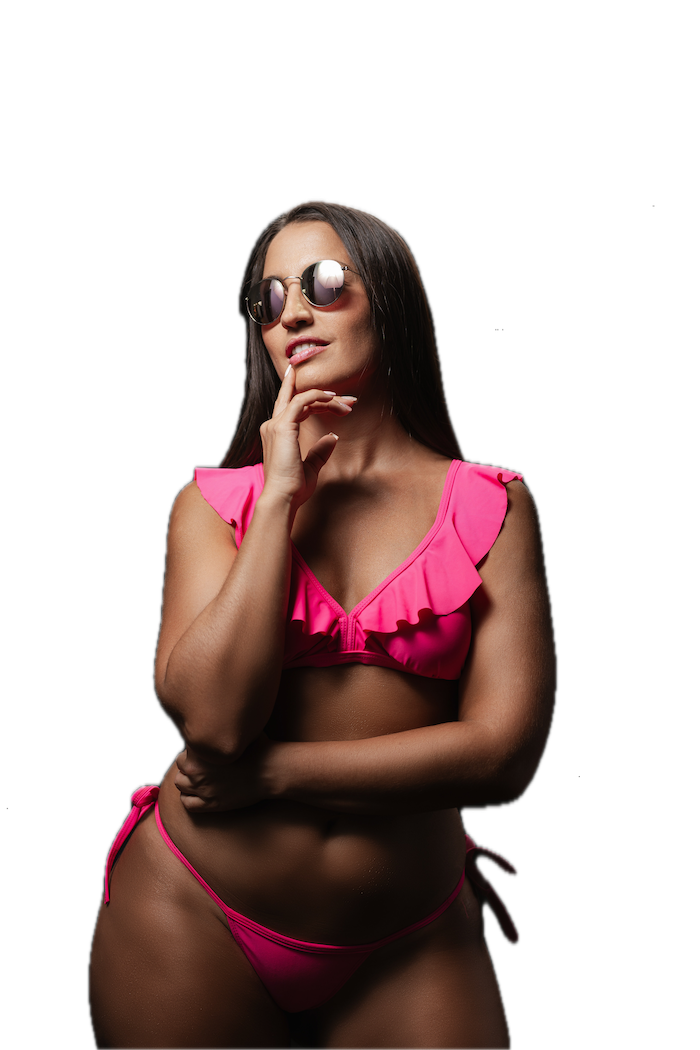
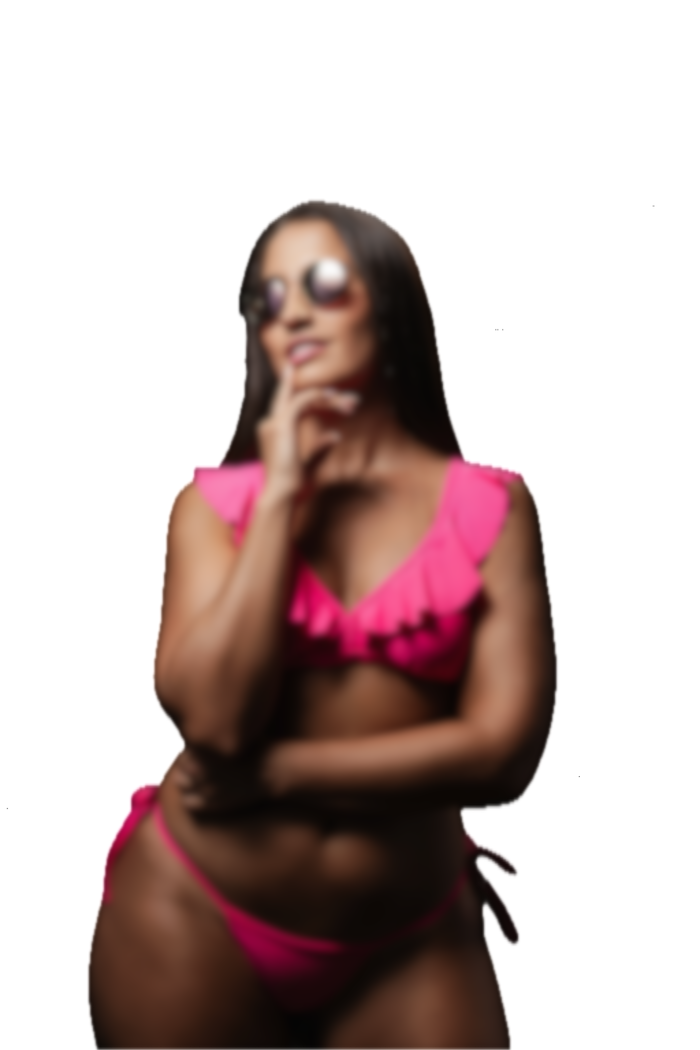
change img

diff --git a/style.css b/style.css
@@ -56,14 +56,14 @@ img {
 }
 
 input[type='range'] {
+    position: absolute; right: -35vw; top:40vh;
+    transform: rotate(-90deg); z-index: 99;
     -webkit-appearance: none;
     border-radius: 8px;
     border: 1px solid #bdc3c7;
     background-color: #bdc3c7;
     outline: none !important;
-    outline: 0;
     -webkit-tap-highlight-color: none;
-    border-radius: 0px;
     height: 30px;
     width: 90vw;
     border-radius: 10px;
@@ -93,3 +93,60 @@ input[type='range'] {
   input[type="range"]::-ms-fill-upper {  
     background-color: #9a905d;
   }
+
+
+  @media only screen and (min-width : 1024px){
+    /* Styles pour cette Media Queries */
+
+    html, body {
+        justify-content: center;
+    }
+
+    .container {
+        width: auto;
+        height: 600px;
+        border-radius: 30px;
+        display: flex;
+        justify-content: center;
+        align-items: center;
+        overflow: hidden;
+    }
+    
+    img {
+        width: auto;
+        height: 600px;
+        object-fit: cover;
+    }
+    
+    #myChoice{
+        margin: 2rem auto;
+    } 
+    
+    #blurry {
+        z-index: 99;
+        position: absolute;
+        height: 600px;
+        border-radius: 30px;
+        backdrop-filter: blur(100px);
+        -webkit-backdrop-filter: blur(100px);
+    }
+
+
+
+    input[type='range'] {
+        position: relative;
+        left: 0px; right: 0px; top: 0px;
+        transform: rotate(0deg); z-index: 99;
+
+        -webkit-appearance: none;
+        border-radius: 8px;
+        border: 1px solid #bdc3c7;
+        background-color: #bdc3c7;
+        outline: none !important;
+        -webkit-tap-highlight-color: none;
+        height: 30px;
+        width: 60vw;
+        border-radius: 10px;
+    }
+
+    }

diff --git a/index.html b/index.html
@@ -18,7 +18,7 @@
         <img id="surprise" src="./img/clown.png" alt="" srcset="">
     </div>
 
-    <input type="range" name="" min="0" max="100" step="1" id="myChoice">
+    <input type="range" name="" min="0" max="100" value="85" step="1" id="myChoice">
 
     <script src="./index.js"></script>
     
